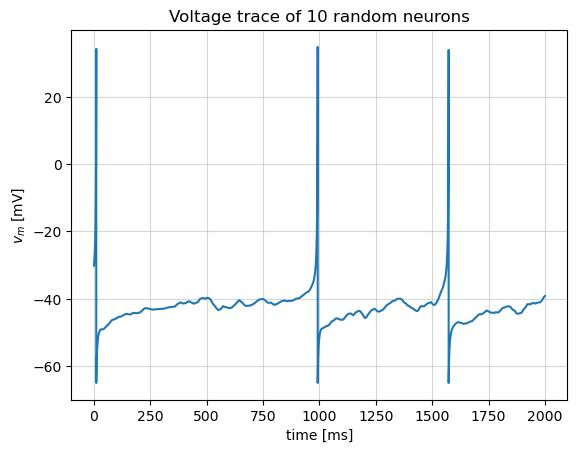
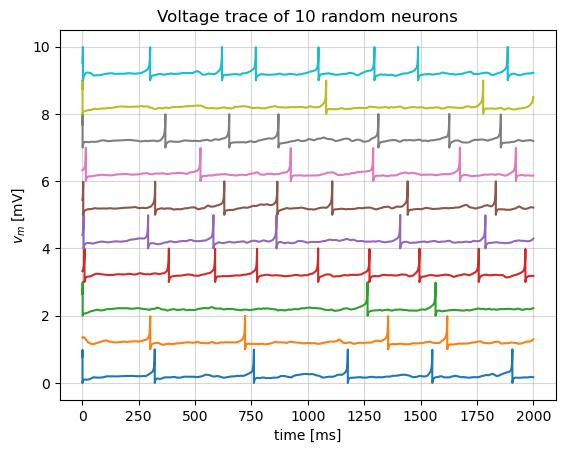
fix: finish optimizing the izhi model.
The runtime for N=2000 and T=2000 is about 7 seconds.

diff --git a/preliminary/izhikevich_rnn.py b/preliminary/izhikevich_rnn.py
@@ -99,13 +99,14 @@ class Izhikevich:
     def _wh_dot(self):
         return - self.wh / self.tau_r
     
-    def render(self):
+    def render(self, n_neurons:int):
         """Simulate the system.
         Randomly choose a neuron and return its voltage trace.
         And return its spike times.
         """
-        n_neurons = 100
-        # random_neuron = np.random.randint(0, self._N, size=(n_neurons, ))
+        if n_neurons > self._N:
+            raise ValueError(f"n_neurons = {n_neurons} should be less than or equal to {self._N}")
+        random_neuron = np.random.choice(a=self._N, size=n_neurons, replace=False)
         voltage_trace = np.zeros(shape=(self.time.size, n_neurons), dtype=float)
         
         for i in tqdm(range(len(self.time))):
@@ -127,7 +128,8 @@ class Izhikevich:
 
             if True in spike_mask:
                 spiking_neurons = np.where(spike_mask)[0]
-                JD = np.sum(self._w[:, spiking_neurons], axis=1)
+                JD = np.sum(self._w[:, spiking_neurons], axis=1).reshape(-1, 1)
+                # print(JD.shape)
                 self.wh += JD / (self.tau_r * self.tau_d)
                 for neuron in spiking_neurons:
                     self.tspike[neuron].append(self.time[i])
@@ -135,7 +137,7 @@ class Izhikevich:
             self.s = self.s * np.exp(-self._dt / self.tau_d) + self.wh * self._dt
             
             # record
-            voltage_trace[i] = self.v[0:100, 0]
+            voltage_trace[i] = self.v[random_neuron, 0]
 
         
         return voltage_trace
